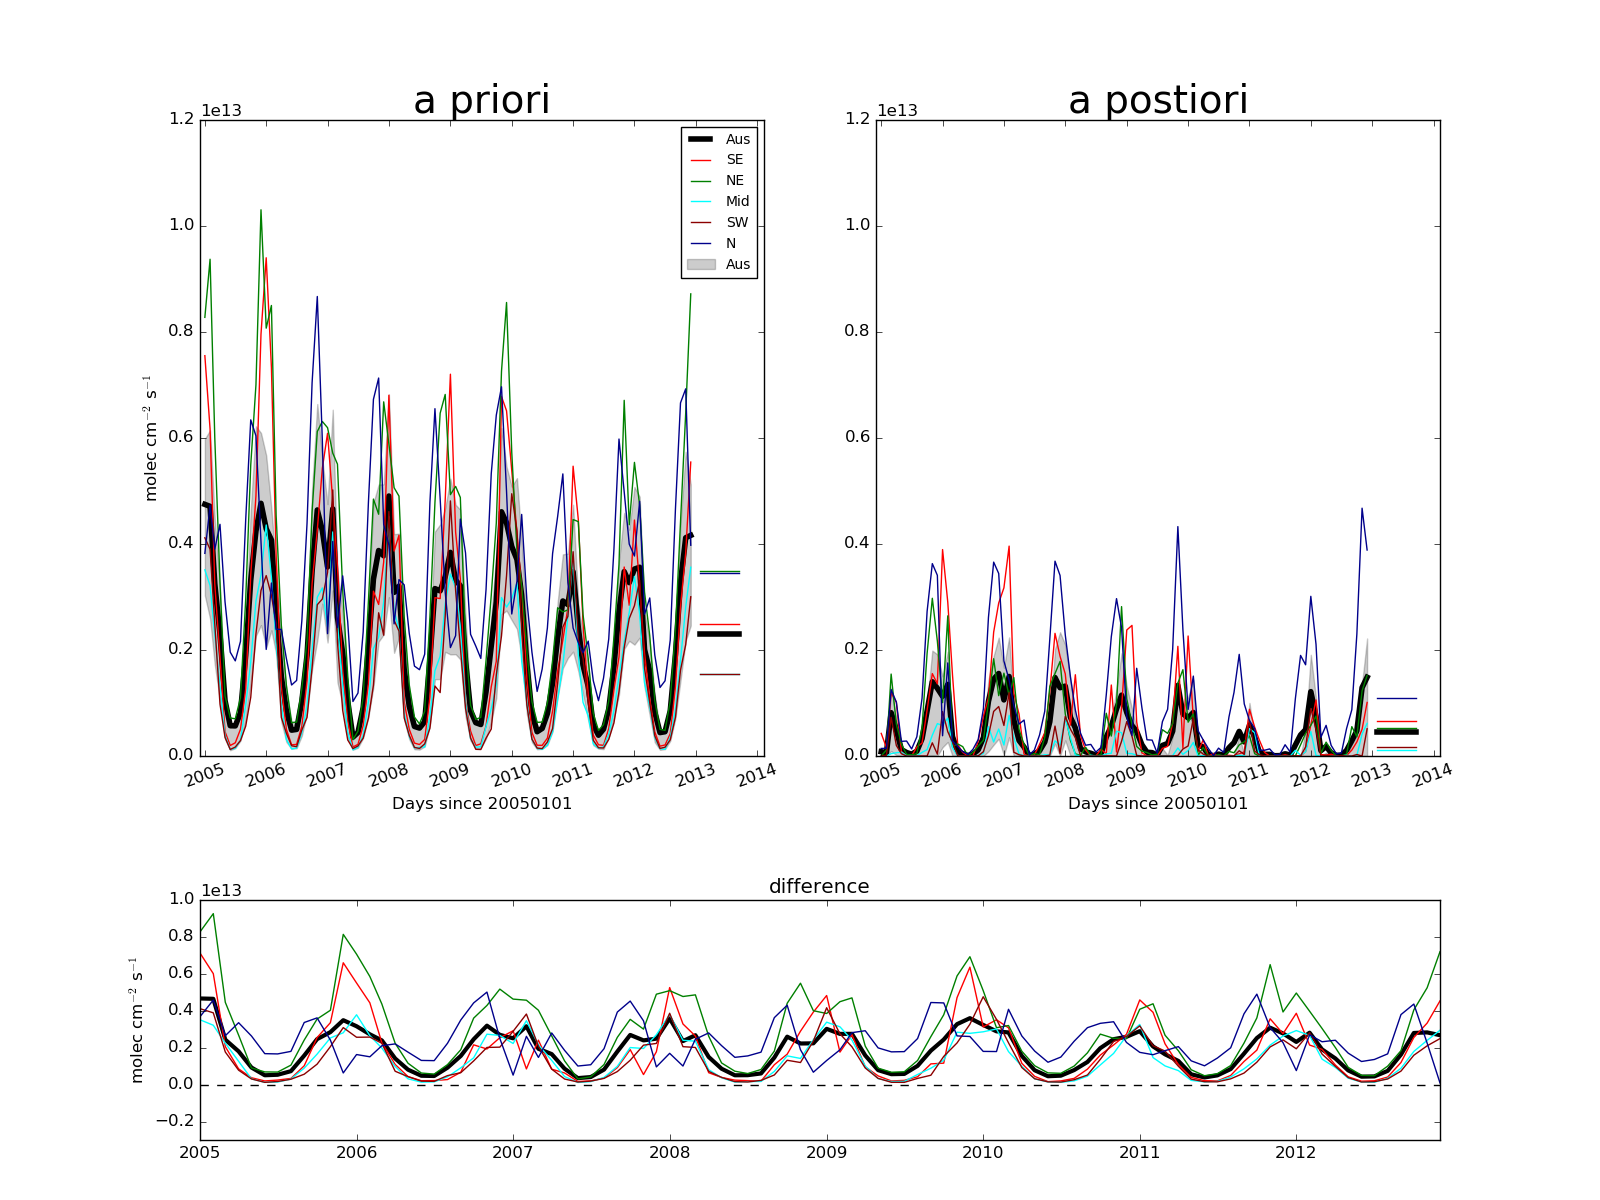
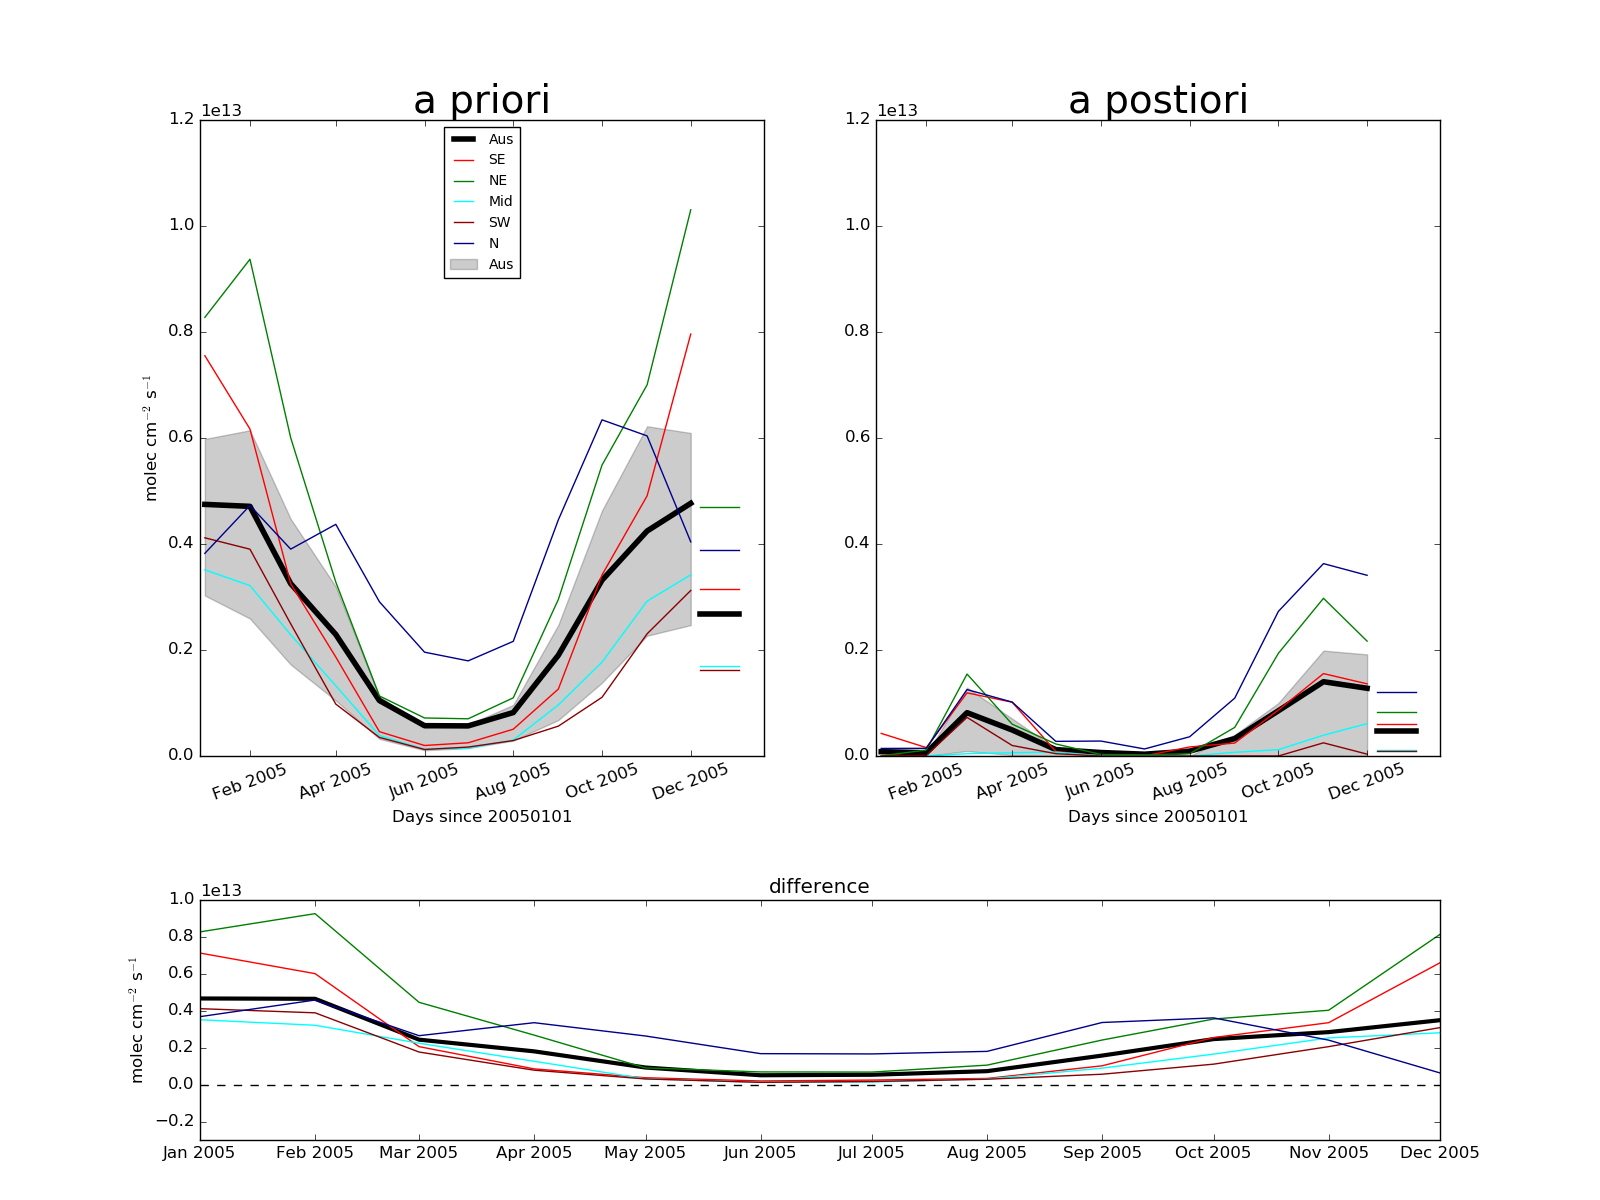
updated e_zones plots

diff --git a/Analyse_E_isop.py b/Analyse_E_isop.py
@@ -551,11 +551,14 @@ def distributions_comparison_regional(d0=datetime(2005,1,1),dE=datetime(2012,12,
     winter= [ d.month in [6,7,8] for d in dates ]
 
     # also work on monthly datasets
-    monthlym = util.monthly_averaged(dates, Em.copy(), keep_spatial=True)
+    # ignore warnings from taking mean of nans
+    with np.warnings.catch_warnings():
+        monthlym = util.monthly_averaged(dates, Em.copy(), keep_spatial=True)
     Em_m = monthlym['mean']
     dates_m = monthlym['dates']
 
-    monthlyo = util.monthly_averaged(dates, Eo.copy(), keep_spatial=True)
+    with np.warnings.catch_warnings():
+        monthlyo = util.monthly_averaged(dates, Eo.copy(), keep_spatial=True)
     Eo_m = monthlyo['mean']
 
     summer_m = [d.month in [1,2,12] for d in dates_m]
@@ -619,7 +622,7 @@ def distributions_comparison_regional(d0=datetime(2005,1,1),dE=datetime(2012,12,
             # make sure minimum value on axes is zero
             g.ax_marg_x.set_xlim(0,g.ax_marg_x.get_xlim()[1])
             g.ax_marg_y.set_ylim(0,g.ax_marg_y.get_ylim()[1])
-            g.ax_joint.legend(handlelength=0, handletextpad=0, frameon=False, numpoints=0)
+            g.ax_joint.legend(handlelength=0, handletextpad=0, frameon=False)
             # Annotate the units
             plt.gca().annotate('molec cm$^{-2}$ s$^{-1}$', xy=(.75,.05))
             # halve the x axis limit
@@ -1208,8 +1211,9 @@ if __name__=='__main__':
     ## compare megan to a top down estimate, both spatially and temporally
     ## Ran 17/7/18 for Jenny jan06 check
     #MEGAN_vs_E_new(d0,dn)
-    distributions_comparison_regional()
-    
+    #distributions_comparison_regional()
+    # TODO: need to fix or manually combine the images made in this one...
+
     ## Plot showing comparison of different top-down estimates
     ## In Isop chapter results
     ## Ran 17/7/18 for jan06 check for Jenny

diff --git a/utilities/GC_fio.py b/utilities/GC_fio.py
@@ -32,7 +32,7 @@ GC_coords = ['lev','lon','lat','time']
 #####GLOBALS######
 ##################
 
-__VERBOSE__=True
+__VERBOSE__=False
 
 run_number={"tropchem":0,"UCX":1,"halfisop":2,"zeroisop":3,"nochem":4}
 runs=["geos5_2x25_tropchem","UCX_geos5_2x25",
@@ -230,7 +230,7 @@ def make_overpass_output_files(run='tropchem'):
         bpch = 'geos5_2x25_tropchem/satellite_output/ts_satellite_omi.%s.bpch'
     else:
         assert False, 'run type not handled yet:'+run
-    fpre='Data/GC_Output/%s.'%bpch
+    fpre='Data/GC_Output/%s'%bpch
     # FOR TESTING JUST DO 2005,2006
     firstday=datetime(2005,1,1)
     lastday = datetime(2006,2,2)
@@ -268,7 +268,8 @@ def make_overpass_output_files(run='tropchem'):
         if year.year==2013:
             d1=datetime(2013,5,31) # special case in 2013
         dlist=util.list_days(d0,d1)
-        
+        print(dlist)
+        print(d0,d1)
         # file names have date strings in name
         files=[]
         for day in dlist:
@@ -280,8 +281,7 @@ def make_overpass_output_files(run='tropchem'):
         print('check overpass files being read (show 1 in 24):', files[::24])
         
         # now read the data from all those files
-        with xarray.open_mfdataset(files) as ds:
-            data,attrs=dataset_to_dicts(ds,keys_to_keep)
+        data,attrs=read_bpch(files,keys_to_keep)
         
         if year.year == years[0].year:
             all_data = data
